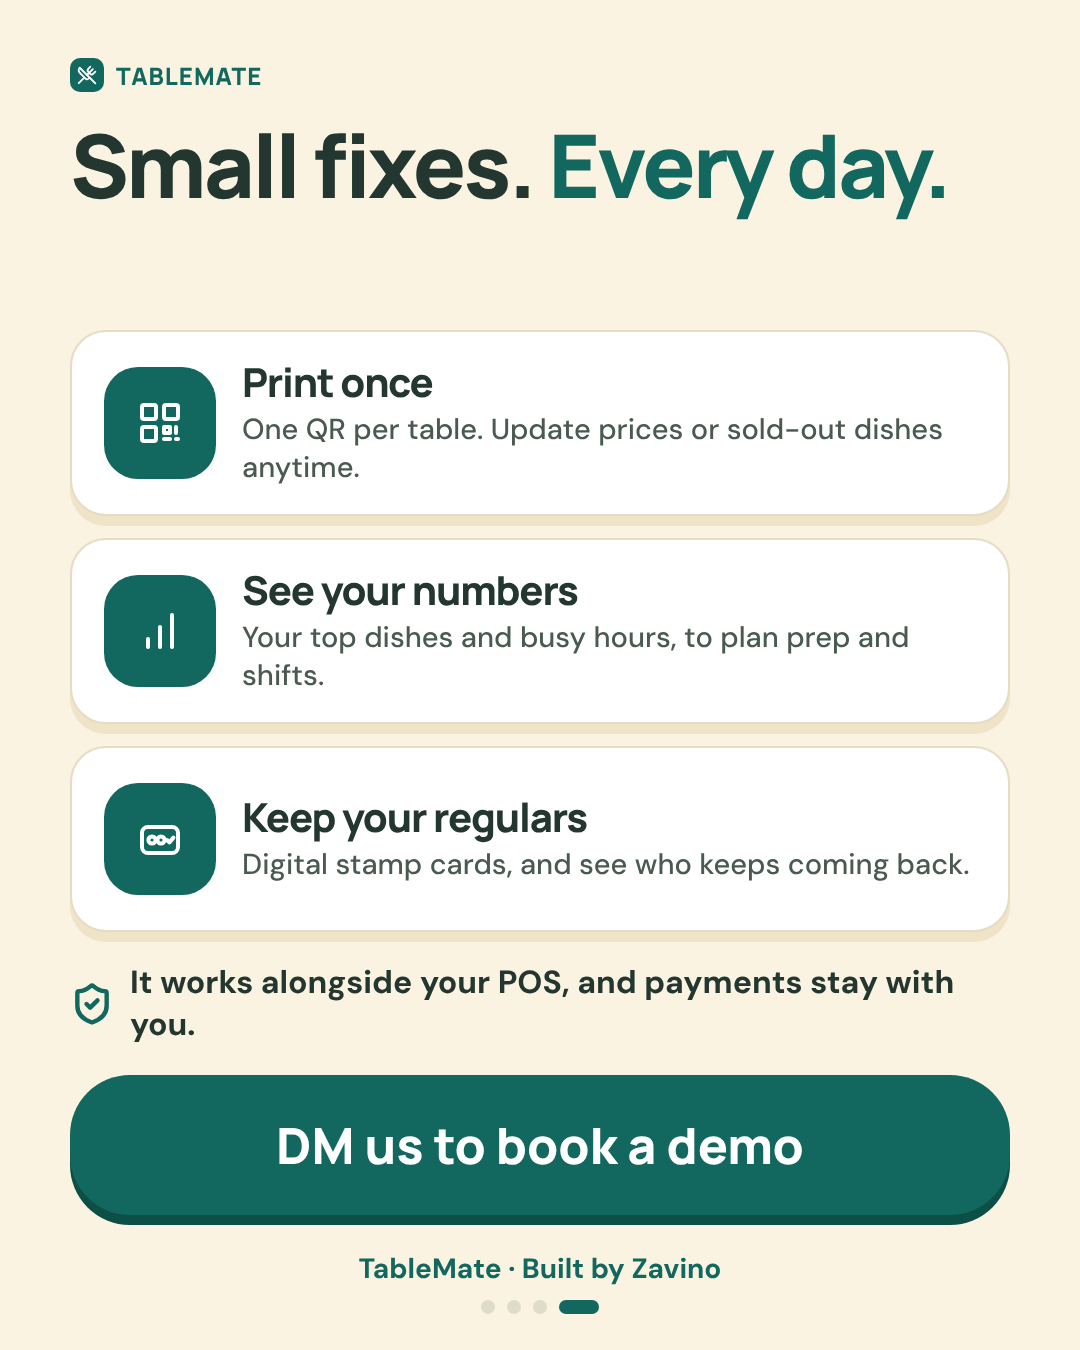
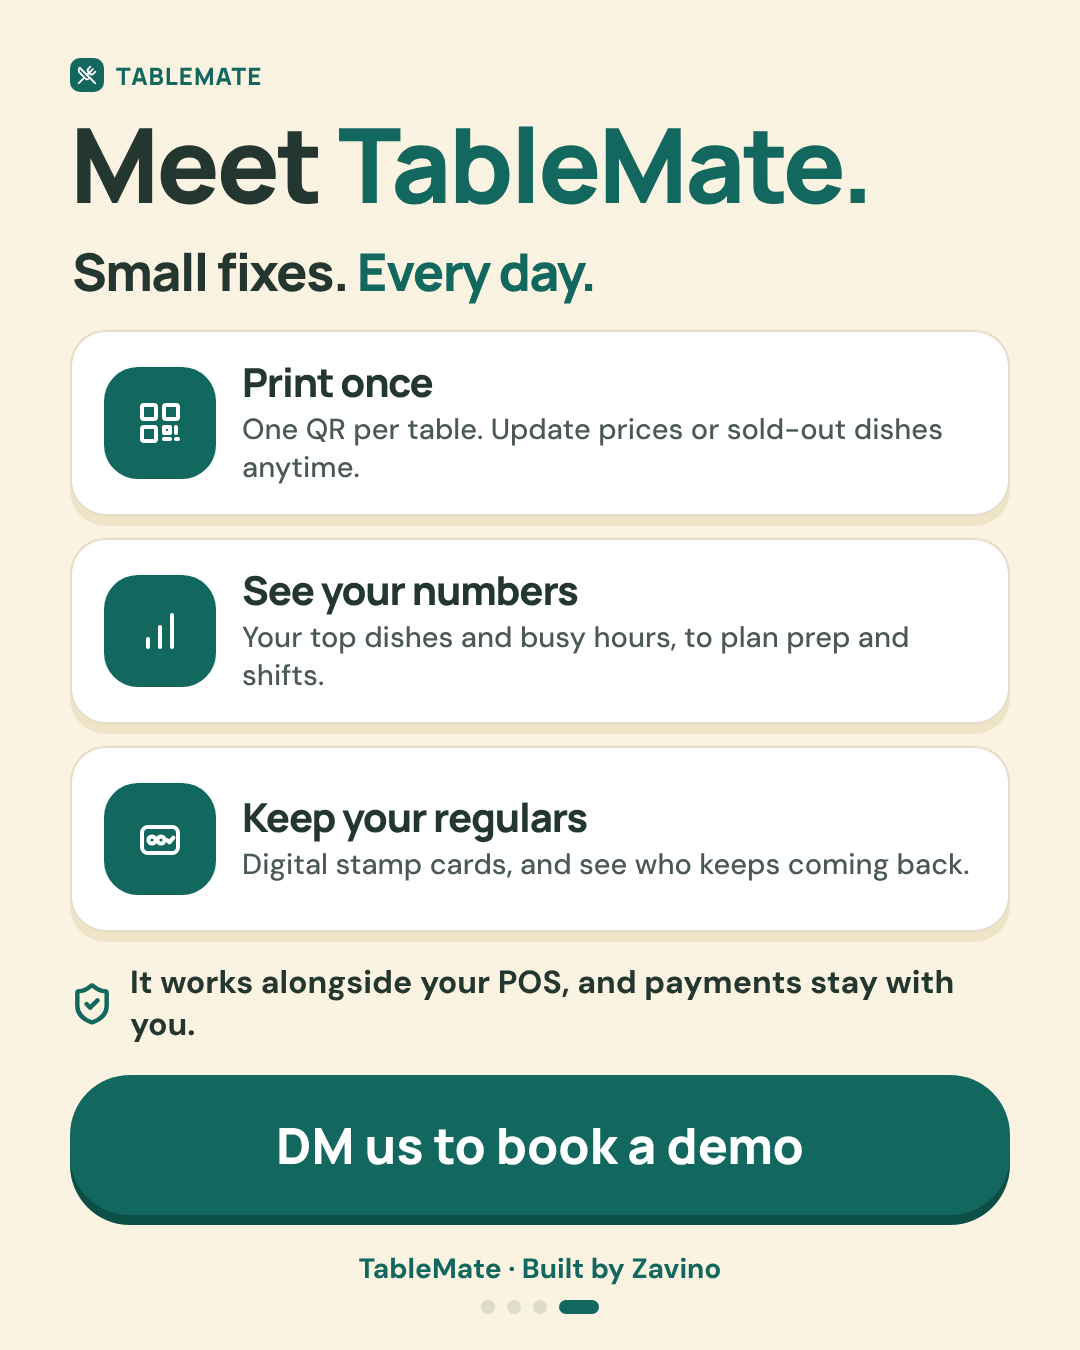
Slide 4: add 'Meet TableMate.' headline
Claude-Session: https://claude.ai/code/session_01765UJcZ9RwUQSuEAPvDGN4

Changed region(s): [[0.0611, 0.0933, 0.8861, 0.1556], [0.0611, 0.1867, 0.55, 0.2178]]

diff --git a/carousel2/slides.html b/carousel2/slides.html
@@ -40,7 +40,7 @@ body{font-family:'DM Sans';color:var(--ink);background:#777}
 
 <div class="s" id="s4">
  <div class="tag"><i><svg viewBox="0 0 24 24" width="20" height="20" fill="none" stroke="#fff" stroke-width="2.2" stroke-linecap="round" stroke-linejoin="round"><path d="m16 2-2.3 2.3a3 3 0 0 0 0 4.2l1.8 1.8a3 3 0 0 0 4.2 0L22 8"/><path d="M15 15 3.3 3.3a4.2 4.2 0 0 0 0 6l7.3 7.3c.7.7 2 .7 2.8 0L15 15Zm0 0 7 7"/><path d="m2.1 21.8 6.4-6.3"/><path d="m19 5-7 7"/></svg></i>TABLEMATE</div>
- <div class="h" style="position:absolute;left:70px;top:120px;font-size:88px">Small fixes. <span style="color:var(--green)">Every day.</span></div>
+ <div class="h" style="position:absolute;left:70px;top:110px;font-size:104px">Meet <span style="color:var(--green)">TableMate.</span></div><div style="position:absolute;left:72px;top:236px;font:800 52px Manrope;letter-spacing:-1.6px">Small fixes. <span style="color:var(--green)">Every day.</span></div>
  <div id="ans" style="position:absolute;left:70px;top:330px;width:940px"></div>
  <div style="position:absolute;left:70px;top:962px;width:940px;font:700 32px/1.3 'DM Sans';display:flex;gap:16px;align-items:center"><svg viewBox="0 0 24 24" width="44" height="44" fill="none" stroke="#12685e" stroke-width="2.4" stroke-linecap="round" stroke-linejoin="round" style="flex:none"><path d="M20 13c0 5-3.5 7.5-7.66 8.95a1 1 0 0 1-.67-.01C7.5 20.5 4 18 4 13V6a1 1 0 0 1 1-1c2 0 4.5-1.2 6.24-2.72a1.17 1.17 0 0 1 1.52 0C14.51 3.81 17 5 19 5a1 1 0 0 1 1 1z"/><path d="m9 12 2 2 4-4"/></svg>It works alongside your POS, and payments stay with you.</div>
  <div class="pill" style="left:70px;top:1075px;width:940px;background:var(--green);color:#fff;padding:36px 0;text-align:center;font-size:50px;box-shadow:0 10px 0 #0c4f47">DM us to book a demo</div>
